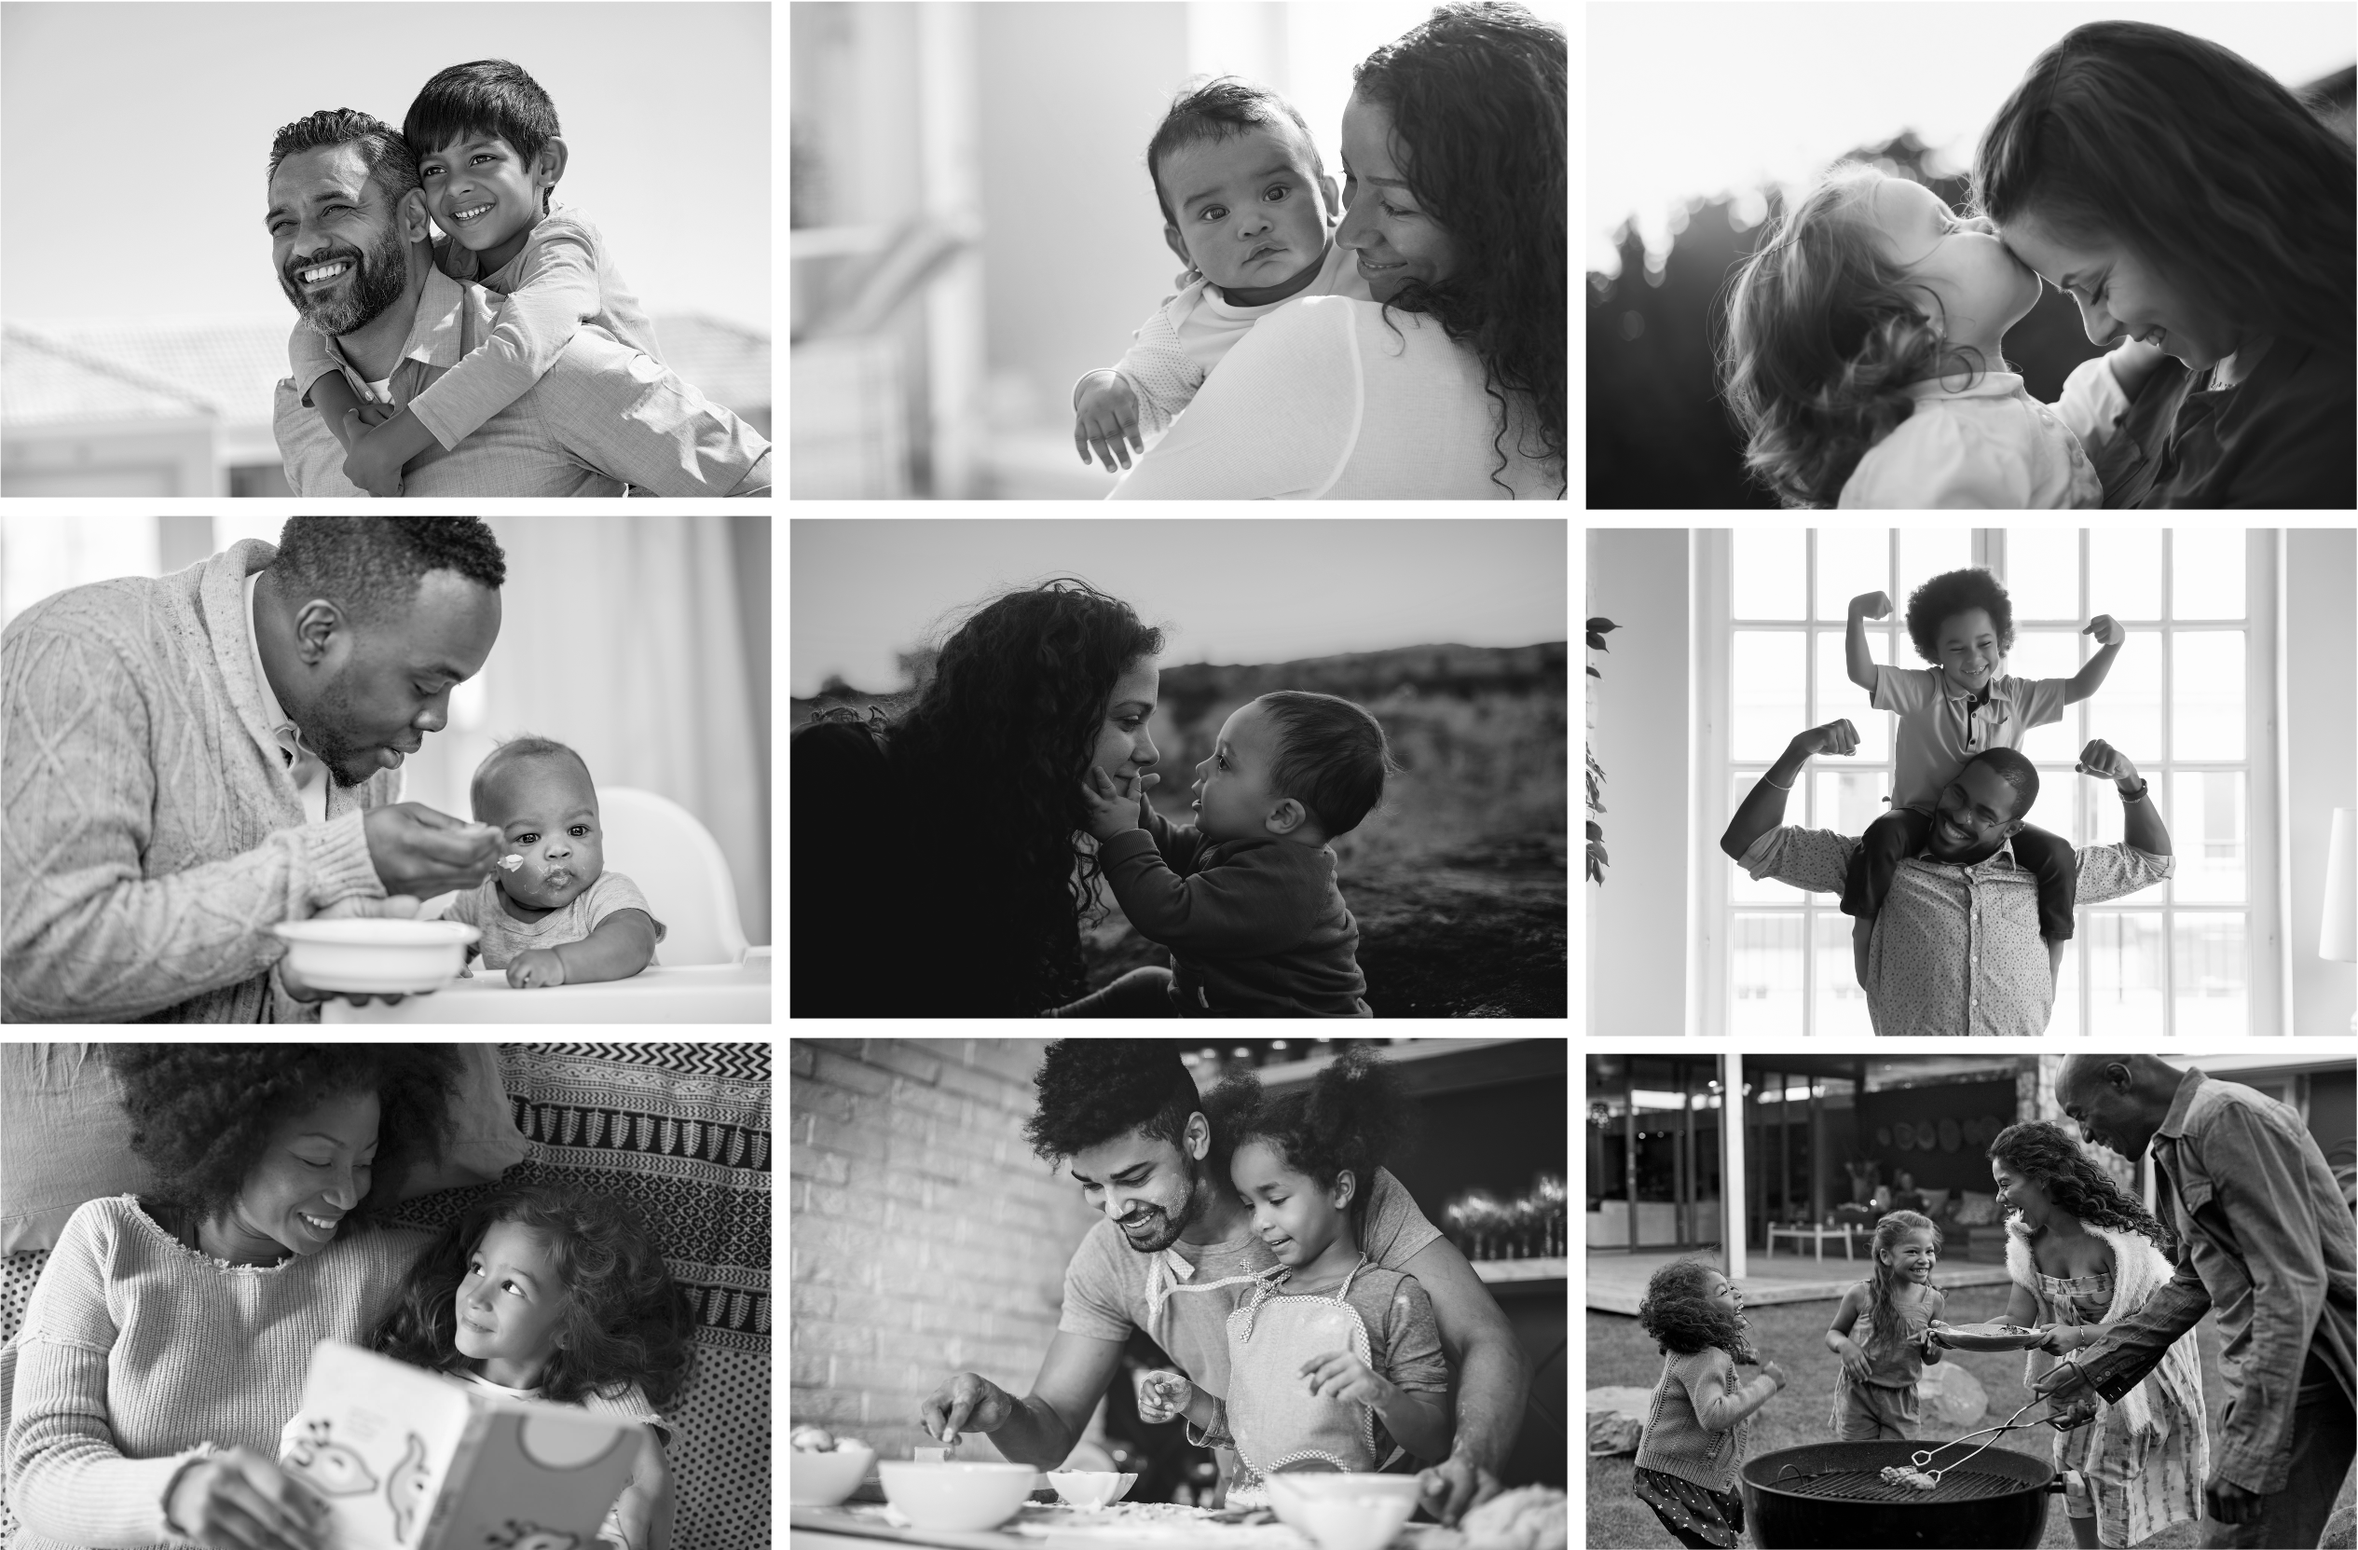
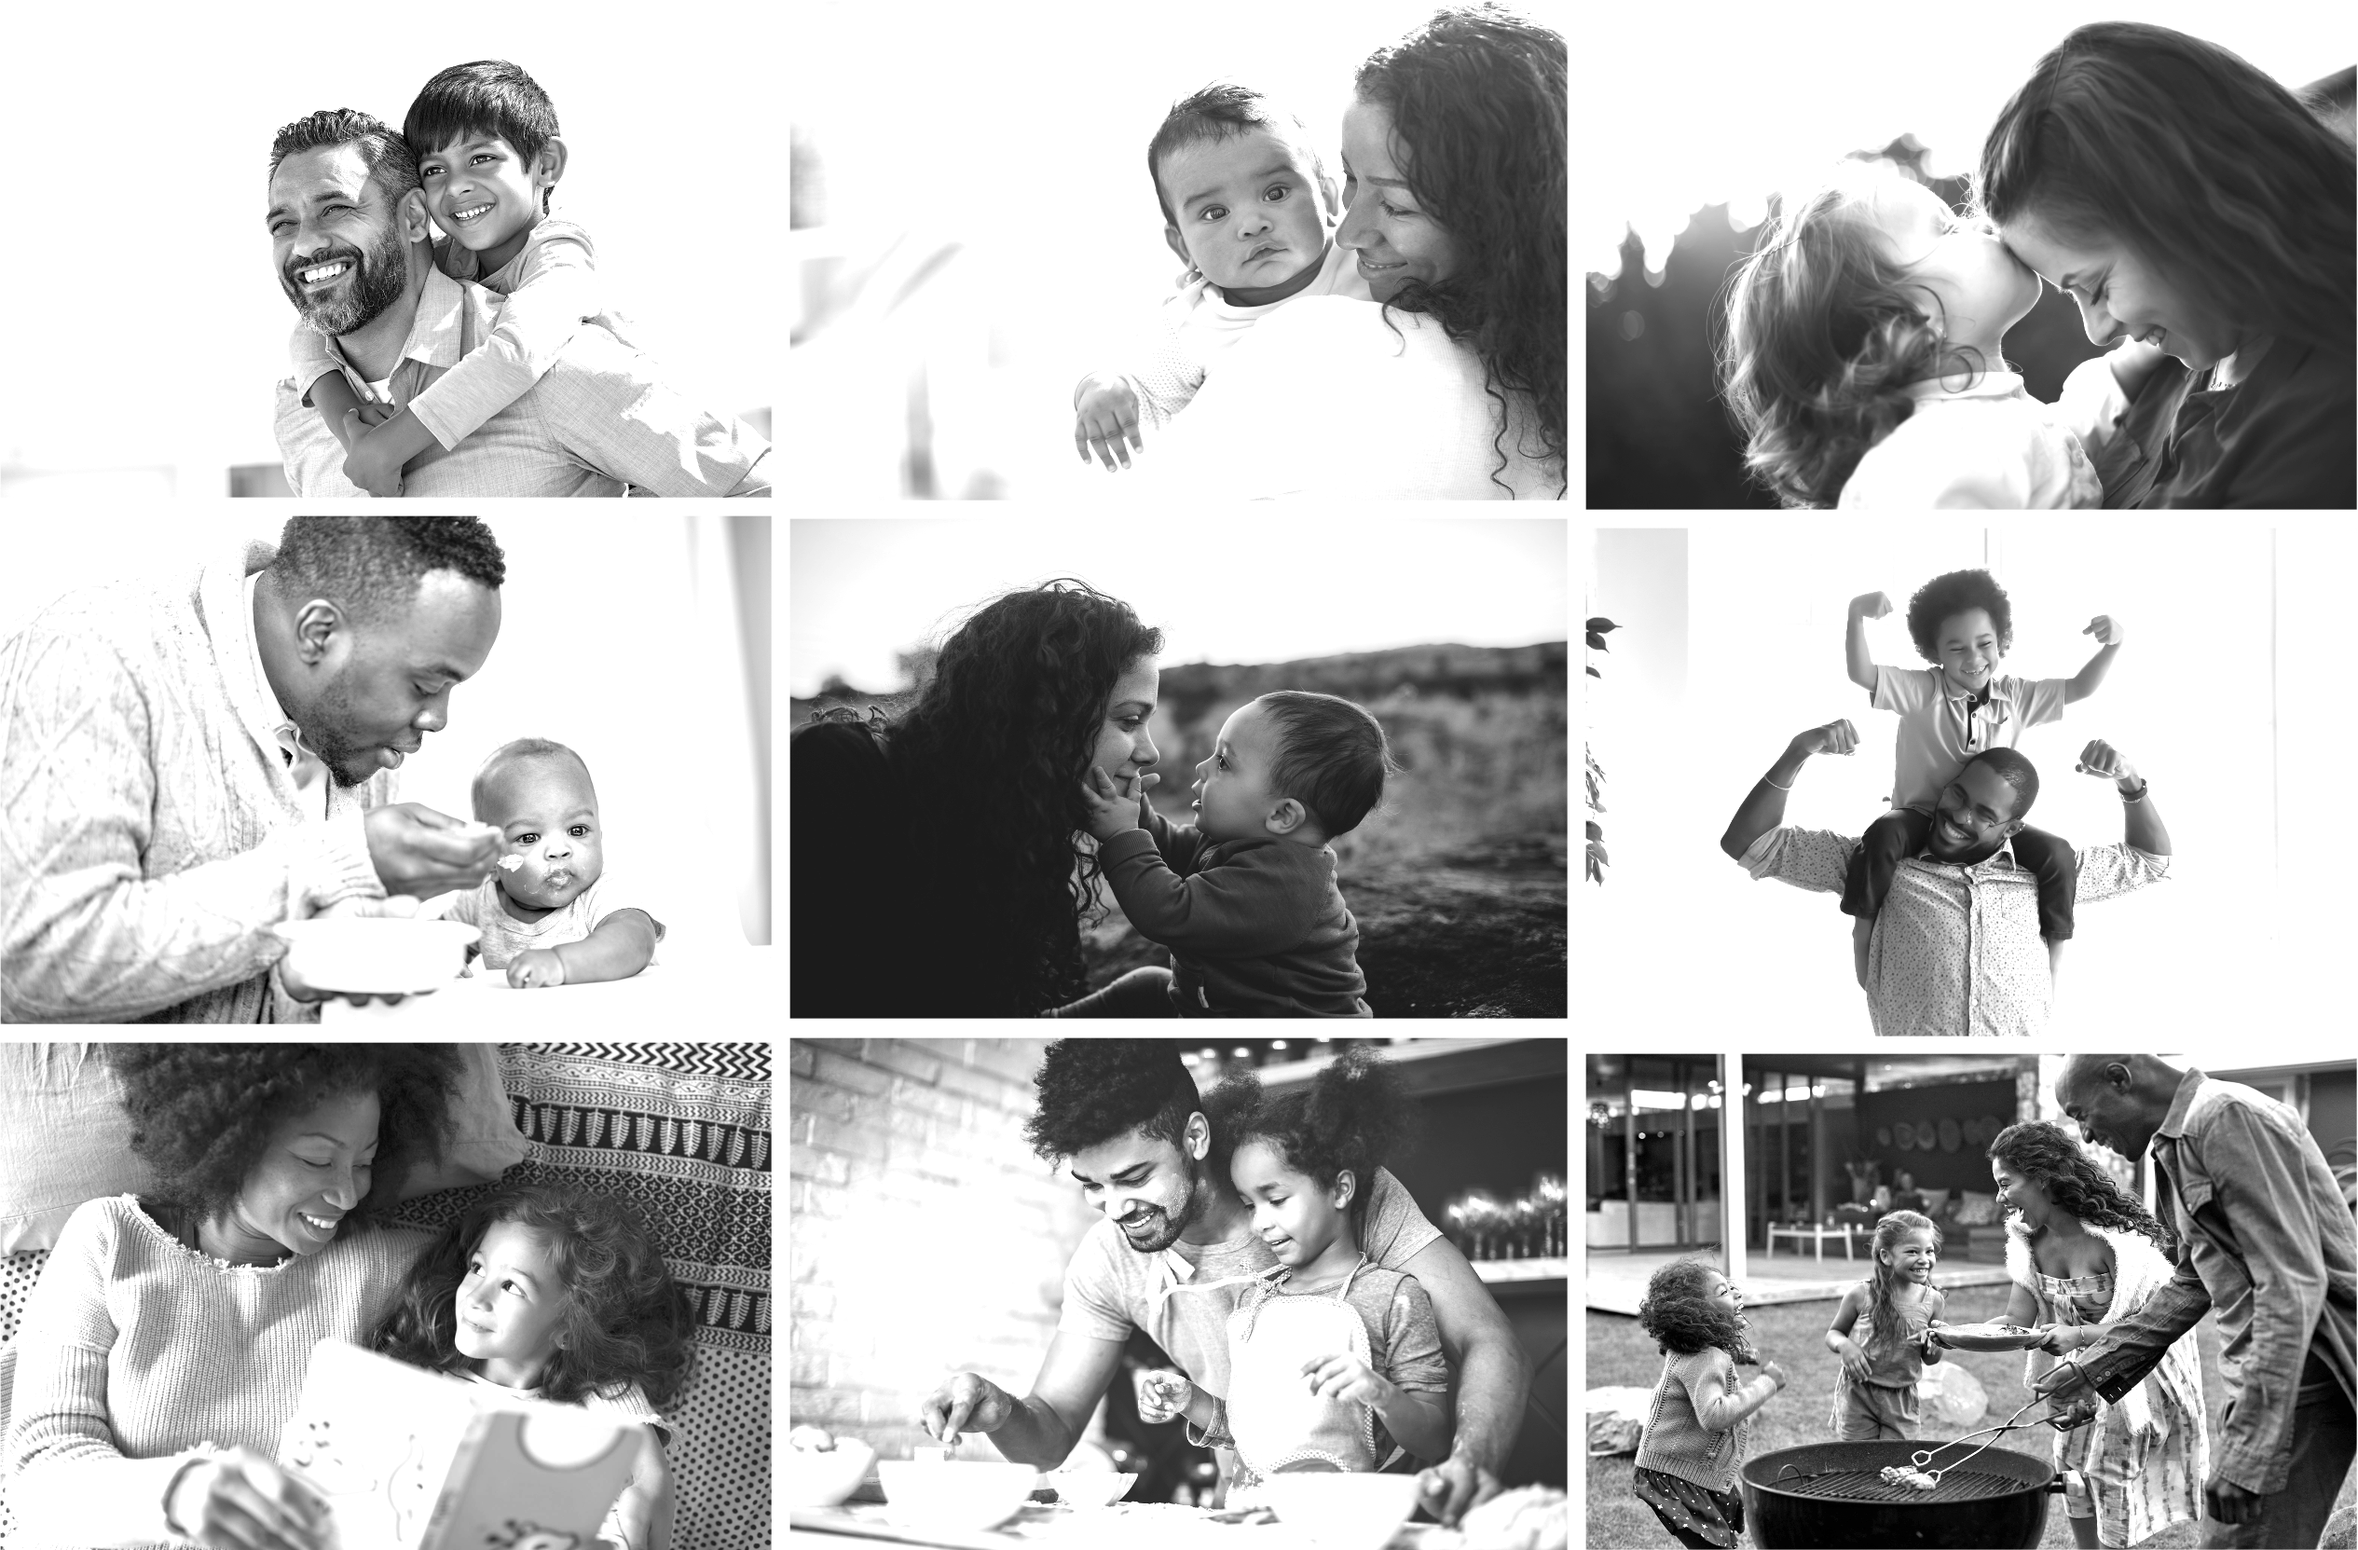
I went back to Michigan colors for the CSS

diff --git a/positive-and-negative-parenting-revealjs.html b/positive-and-negative-parenting-revealjs.html
@@ -303,8 +303,8 @@ function typeWriter() {
 <p>MICS data collected by UNICEF from Low and Middle Income Countries (LMIC) around the world. <span class="math inline">\(N = 224,632 \text{ families}; N_{countries} = 60\)</span></p>
 <div class="cell">
 <div class="cell-output-display">
-<div class="plotly html-widget html-fill-item" id="htmlwidget-e62b1082b696ed79a37c" style="width:960px;height:480px;"></div>
-<script type="application/json" data-for="htmlwidget-e62b1082b696ed79a37c">{"x":{"visdat":{"184b4acdc619":["function () ","plotlyVisDat"]},"cur_data":"184b4acdc619","attrs":{"184b4acdc619":{"alpha_stroke":1,"sizes":[10,100],"spans":[1,20],"z":1,"text":{},"colors":"dodgerblue","hoverinfo":"text","locations":{},"showscale":false,"marker":{"size":10,"line":{"color":"rgba(0,0,0,1)","width":0.5}},"inherit":true}},"layout":{"margin":{"b":40,"l":60,"t":25,"r":10},"mapType":"geo","geo":{"domain":{"x":[0,1],"y":[0,1]},"showframe":true,"showcoastlines":true,"showcountries":true,"showland":true,"countrycolor":"rgba(190,190,190,1)","showocean":true,"oceancolor":"white","projection":{"type":"robinson"},"landcolor":"rgba(211,211,211,1)","bgcolor":"transparent"},"plot_bgcolor":"transparent","paper_bgcolor":"transparent","scene":{"zaxis":{"title":[]}},"hovermode":"closest","showlegend":false},"source":"A","config":{"modeBarButtonsToAdd":["hoverclosest","hovercompare"],"showSendToCloud":false,"displayModeBar":false},"data":[{"colorbar":{"title":"","ticklen":2},"colorscale":[["0","rgba(30,144,255,1)"],["1","rgba(30,144,255,1)"]],"showscale":false,"z":[1,1,1,1,1,1,1,1,1,1,1,1,1,1,1,1,1,1,1,1,1,1,1,1,1,1,1,1,1,1,1,1,1,1,1,1,1,1,1,1,1,1,1,1,1,1,1,1,1,1,1,1,1,1,1,1,1,1,1,1,1],"text":["Algeria","Argentina","Bangladesh","Barbados","Belarus","Belize","Benin","Bosnia and Herzegovina","Cameroon","Central African Republic","Chad","Democratic Republic of the Congo","Republic of the Congo","Costa Rica","Cote d'Ivoire","Dominican Republic","El Salvador","Eswatini","Ghana","Guinea","Guinea Bissau","Guyana","Iraq","Jamaica","Kazakhstan","Kenya","Kosovo","Kyrgyzstan","Laos","Macedonia","Madagascar","Malawi","Mali","Mauritania","Mexico","Moldova","Mongolia","Montenegro","Nepal","Nigeria","Pakistan","Panama","Paraguay","Sao Tome and Principe","Senegal","Serbia","Sierra Leone","Somalia","St. Lucia","State of Palestine","Suriname","Thailand","The Gambia","Togo","Trinidad and Tobago","Tunisia","Turkmenistan","Ukraine","Uruguay","Vietnam","Zimbabwe"],"hoverinfo":["text","text","text","text","text","text","text","text","text","text","text","text","text","text","text","text","text","text","text","text","text","text","text","text","text","text","text","text","text","text","text","text","text","text","text","text","text","text","text","text","text","text","text","text","text","text","text","text","text","text","text","text","text","text","text","text","text","text","text","text","text"],"locations":["DZA","ARG","BGD","BRB","BLR","BLZ","BEN","BIH","CMR","CAF","TCD","COD","COG","CRI","CIV","DOM","SLV","SWZ","GHA","GIN","GNB","GUY","IRQ","JAM","KAZ","KEN",null,"KGZ","LAO","MKD","MDG","MWI","MLI","MRT","MEX","MDA","MNG","MNE","NPL","NGA","PAK","PAN","PRY","STP","SEN","SRB","SLE","SOM","LCA","PSE","SUR","THA","GMB","TGO","TTO","TUN","TKM","UKR","URY","VNM","ZWE"],"marker":{"size":10,"line":{"color":"rgba(0,0,0,1)","width":0.5}},"type":"choropleth","geo":"geo","frame":null}],"highlight":{"on":"plotly_click","persistent":false,"dynamic":false,"selectize":false,"opacityDim":0.20000000000000001,"selected":{"opacity":1},"debounce":0},"shinyEvents":["plotly_hover","plotly_click","plotly_selected","plotly_relayout","plotly_brushed","plotly_brushing","plotly_clickannotation","plotly_doubleclick","plotly_deselect","plotly_afterplot","plotly_sunburstclick"],"base_url":"https://plot.ly"},"evals":[],"jsHooks":[]}</script>
+<div class="plotly html-widget html-fill-item" id="htmlwidget-a35773b4e15c76eea5d4" style="width:960px;height:480px;"></div>
+<script type="application/json" data-for="htmlwidget-a35773b4e15c76eea5d4">{"x":{"visdat":{"2c0851b658c4":["function () ","plotlyVisDat"]},"cur_data":"2c0851b658c4","attrs":{"2c0851b658c4":{"alpha_stroke":1,"sizes":[10,100],"spans":[1,20],"z":1,"text":{},"colors":"dodgerblue","hoverinfo":"text","locations":{},"showscale":false,"marker":{"size":10,"line":{"color":"rgba(0,0,0,1)","width":0.5}},"inherit":true}},"layout":{"margin":{"b":40,"l":60,"t":25,"r":10},"mapType":"geo","geo":{"domain":{"x":[0,1],"y":[0,1]},"showframe":true,"showcoastlines":true,"showcountries":true,"showland":true,"countrycolor":"rgba(190,190,190,1)","showocean":true,"oceancolor":"white","projection":{"type":"robinson"},"landcolor":"rgba(211,211,211,1)","bgcolor":"transparent"},"plot_bgcolor":"transparent","paper_bgcolor":"transparent","scene":{"zaxis":{"title":[]}},"hovermode":"closest","showlegend":false},"source":"A","config":{"modeBarButtonsToAdd":["hoverclosest","hovercompare"],"showSendToCloud":false,"displayModeBar":false},"data":[{"colorbar":{"title":"","ticklen":2},"colorscale":[["0","rgba(30,144,255,1)"],["1","rgba(30,144,255,1)"]],"showscale":false,"z":[1,1,1,1,1,1,1,1,1,1,1,1,1,1,1,1,1,1,1,1,1,1,1,1,1,1,1,1,1,1,1,1,1,1,1,1,1,1,1,1,1,1,1,1,1,1,1,1,1,1,1,1,1,1,1,1,1,1,1,1,1],"text":["Algeria","Argentina","Bangladesh","Barbados","Belarus","Belize","Benin","Bosnia and Herzegovina","Cameroon","Central African Republic","Chad","Democratic Republic of the Congo","Republic of the Congo","Costa Rica","Cote d'Ivoire","Dominican Republic","El Salvador","Eswatini","Ghana","Guinea","Guinea Bissau","Guyana","Iraq","Jamaica","Kazakhstan","Kenya","Kosovo","Kyrgyzstan","Laos","Macedonia","Madagascar","Malawi","Mali","Mauritania","Mexico","Moldova","Mongolia","Montenegro","Nepal","Nigeria","Pakistan","Panama","Paraguay","Sao Tome and Principe","Senegal","Serbia","Sierra Leone","Somalia","St. Lucia","State of Palestine","Suriname","Thailand","The Gambia","Togo","Trinidad and Tobago","Tunisia","Turkmenistan","Ukraine","Uruguay","Vietnam","Zimbabwe"],"hoverinfo":["text","text","text","text","text","text","text","text","text","text","text","text","text","text","text","text","text","text","text","text","text","text","text","text","text","text","text","text","text","text","text","text","text","text","text","text","text","text","text","text","text","text","text","text","text","text","text","text","text","text","text","text","text","text","text","text","text","text","text","text","text"],"locations":["DZA","ARG","BGD","BRB","BLR","BLZ","BEN","BIH","CMR","CAF","TCD","COD","COG","CRI","CIV","DOM","SLV","SWZ","GHA","GIN","GNB","GUY","IRQ","JAM","KAZ","KEN",null,"KGZ","LAO","MKD","MDG","MWI","MLI","MRT","MEX","MDA","MNG","MNE","NPL","NGA","PAK","PAN","PRY","STP","SEN","SRB","SLE","SOM","LCA","PSE","SUR","THA","GMB","TGO","TTO","TUN","TKM","UKR","URY","VNM","ZWE"],"marker":{"size":10,"line":{"color":"rgba(0,0,0,1)","width":0.5}},"type":"choropleth","geo":"geo","frame":null}],"highlight":{"on":"plotly_click","persistent":false,"dynamic":false,"selectize":false,"opacityDim":0.20000000000000001,"selected":{"opacity":1},"debounce":0},"shinyEvents":["plotly_hover","plotly_click","plotly_selected","plotly_relayout","plotly_brushed","plotly_brushing","plotly_clickannotation","plotly_doubleclick","plotly_deselect","plotly_afterplot","plotly_sunburstclick"],"base_url":"https://plot.ly"},"evals":[],"jsHooks":[]}</script>
 <p>Countries in UNICEF MICS Data</p>
 </div>
 </div>

diff --git a/positive-and-negative-parenting-revealjs.css b/positive-and-negative-parenting-revealjs.css
@@ -1,18 +1,18 @@
 h1.title {
   font-size: 55px;
-  color: white;
-  background-color: red;
+  color: #FFCB05;
+  background-color: #00274C;
 }
 
 .subtitle {
-  color: white;
-  background-color: red;
+  color: #FFCB05;
+  background-color: #00274C;
 }
 
 .quarto-title-author-name, .date {
   font-size: 30px;
-  color: white;
-  background-color: red;
+  color: #FFCB05;
+  background-color: #00274C;
 }
 
 p.author {
@@ -21,22 +21,22 @@ p.author {
 
 .reveal blockquote {
   color: black;
-  border-left: 3px solid red; 
+  border-left: 3px solid #FFCB05; 
   padding: 0.5em 10px;
 }
 
 .reveal .progress span { 
-  color: red;
+  color: #D86018;
 }
 
 .reveal .slide figure>figcaption {
-  color: red;
+  color: #D86018;
 }
 
 /* Highlights only rows within the body of the table */
 /* W3Schools */
 tbody tr:hover {
-  background-color: #FFCCCB;
+  background-color: lightblue;
   cursor: pointer; /* Optional: indicates the row is interactive */
 }
 
